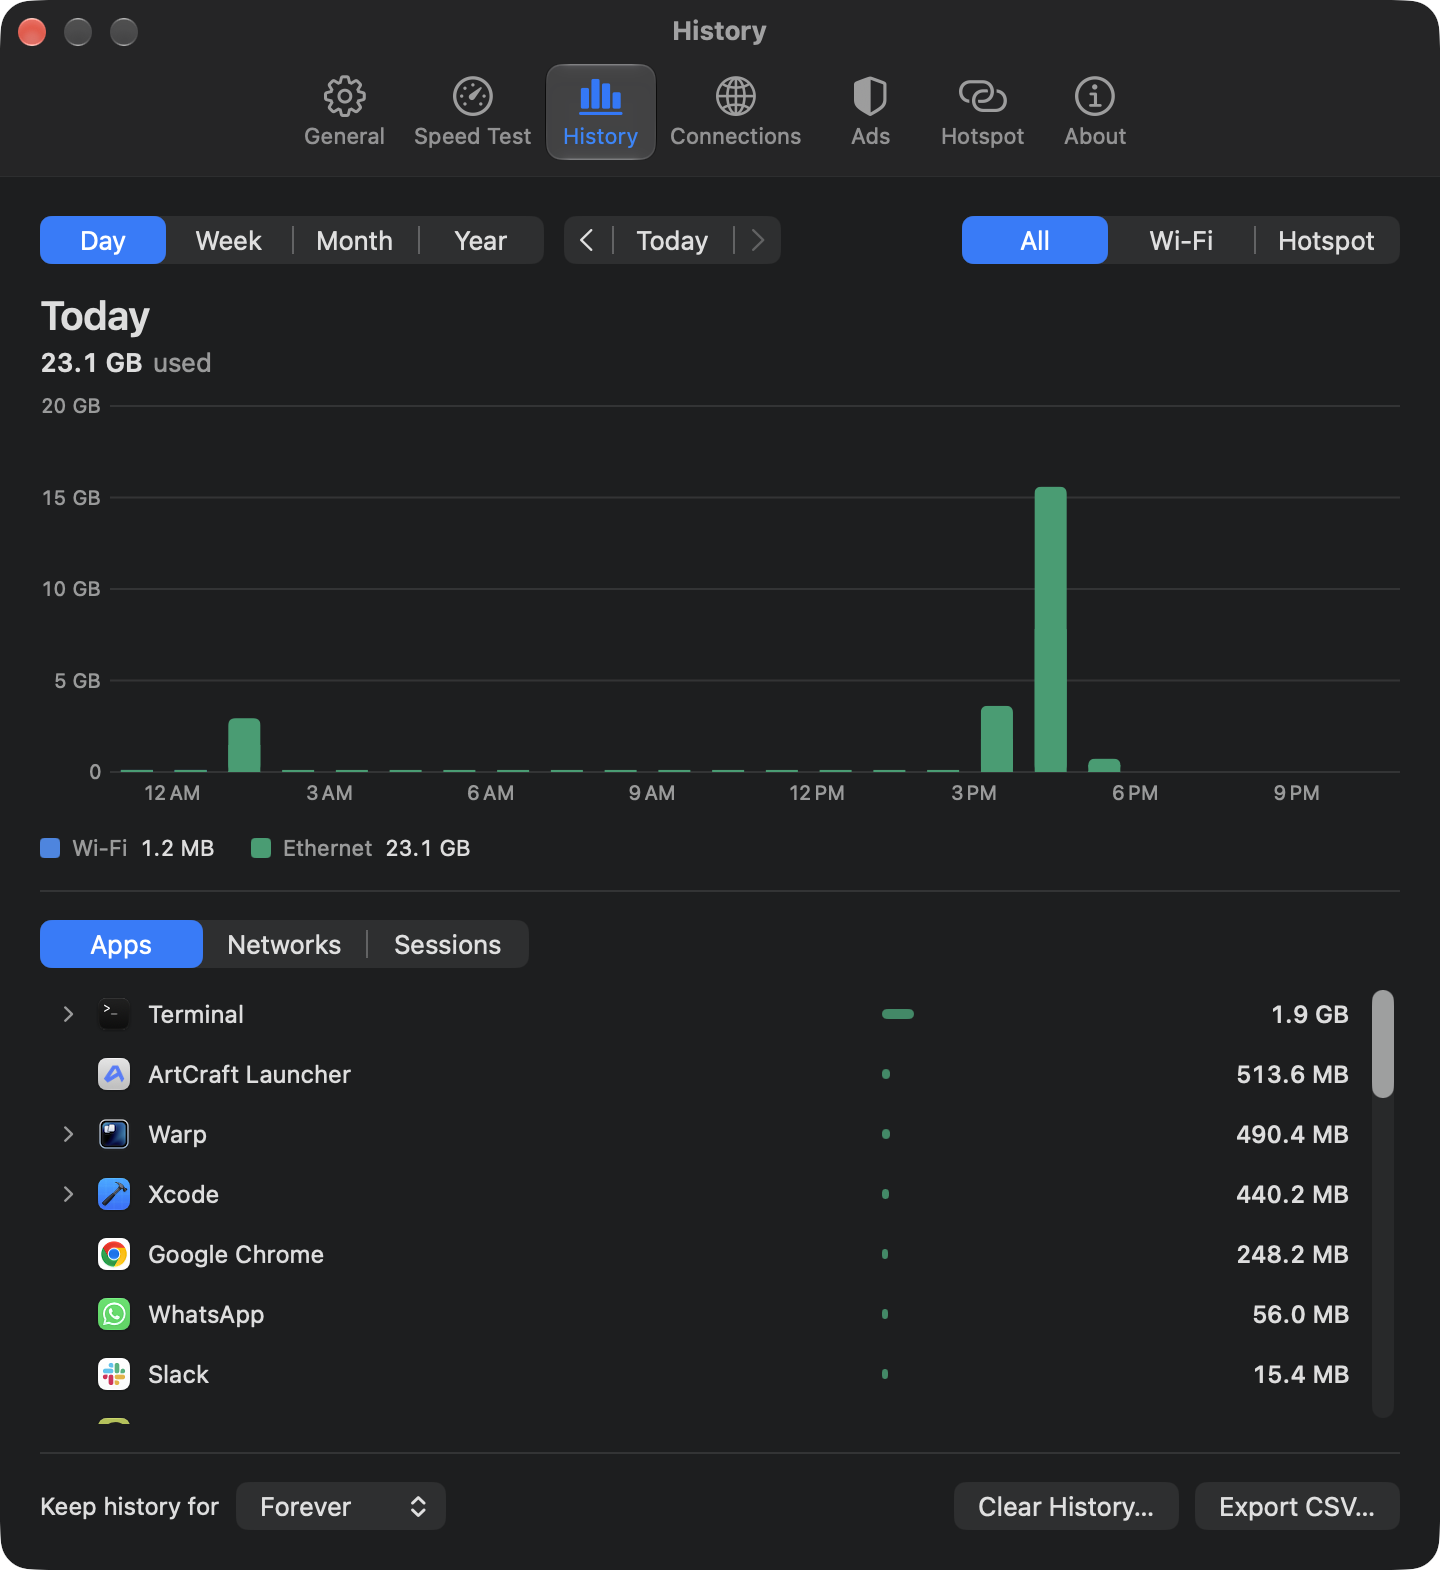
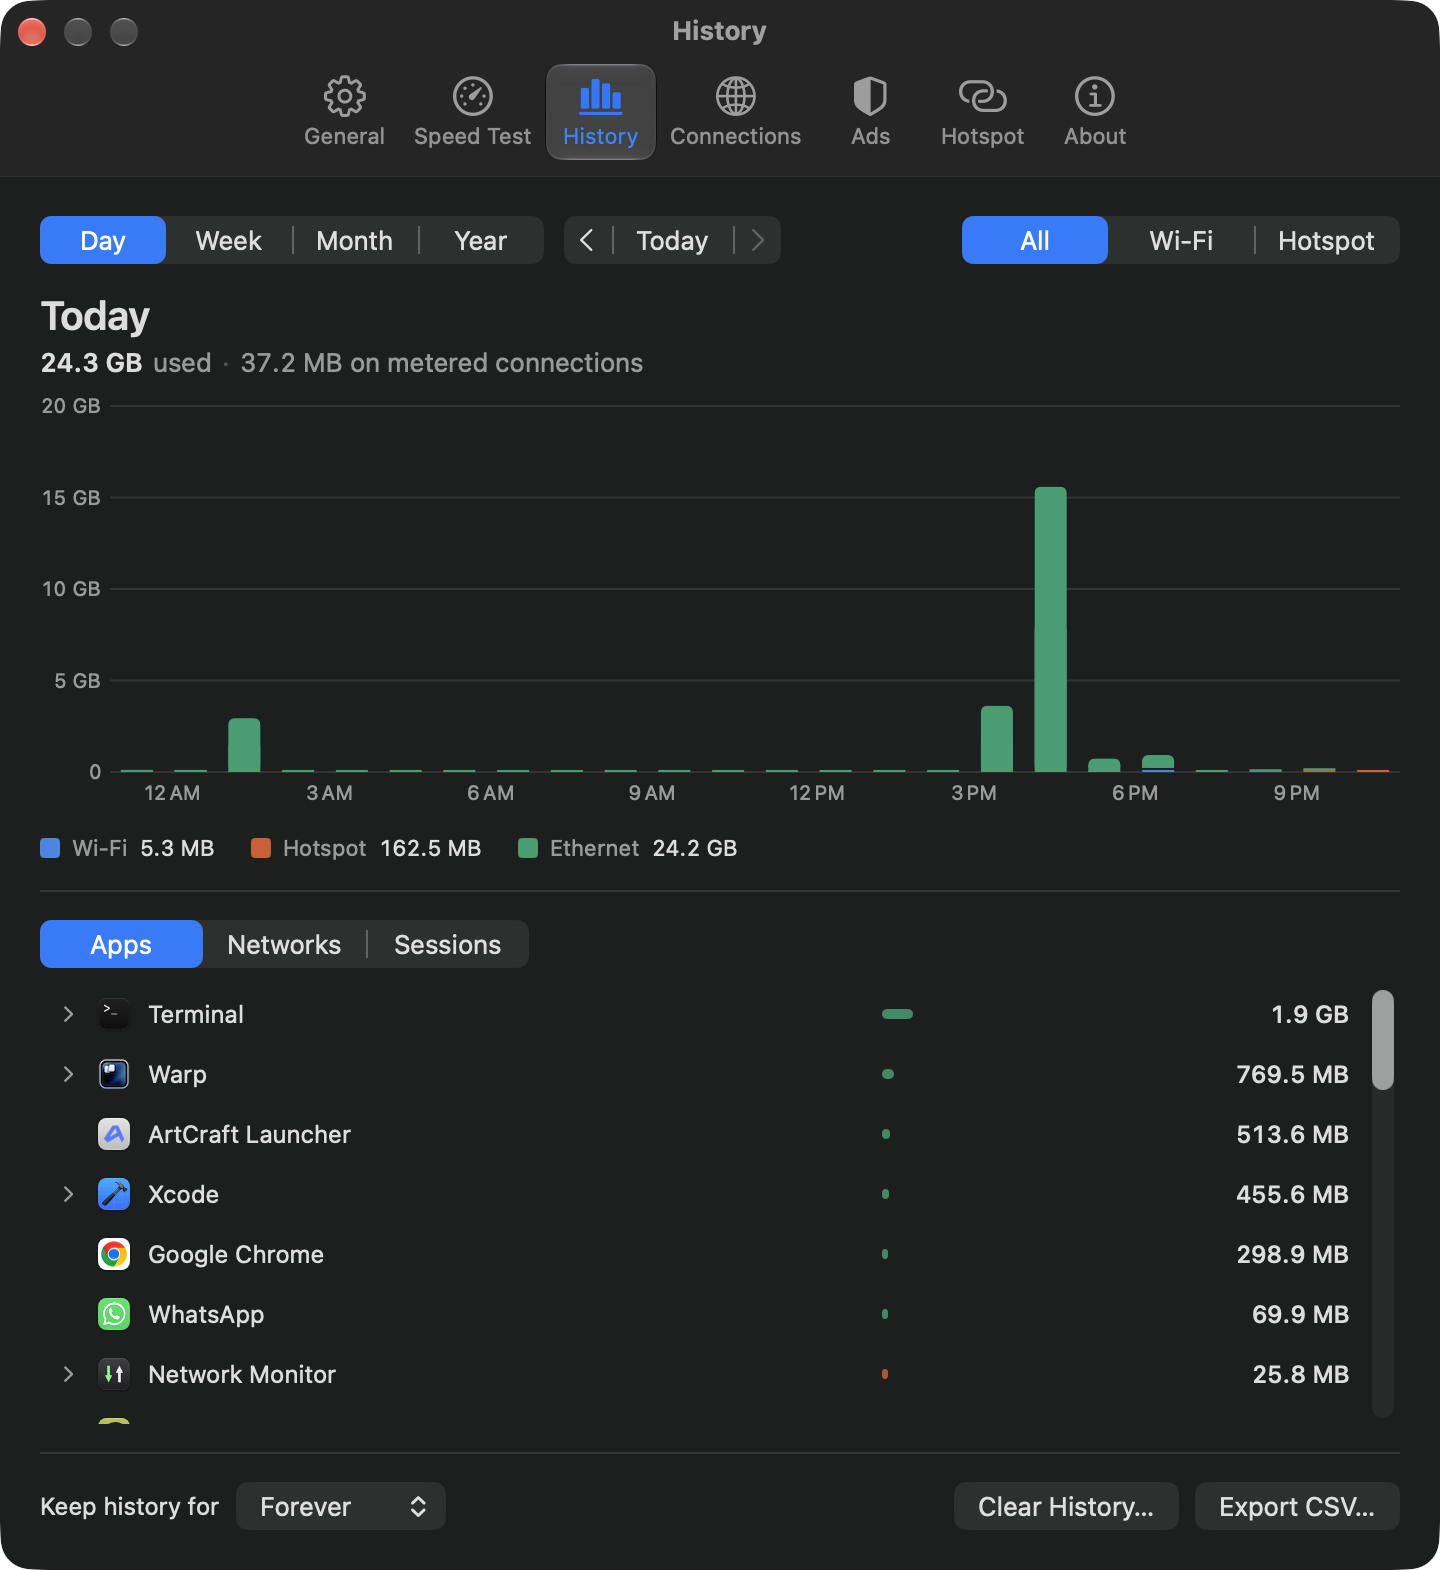
Site for 1.26.3 (#358)
Version, 13.9 MB and What's new link; History and About retaken from the installed 1.26.3, and the trees for Connections, History and About's new accessibility labels (#346).

diff --git a/index.html b/index.html
@@ -459,7 +459,7 @@ footer a { color: var(--text-2); }
         <a class="btn" href="https://github.com/kevinabouhanna/NetworkMonitor/releases/latest/download/NetworkMonitor.dmg" data-download>Download for Mac</a>
         <a class="more" href="https://github.com/kevinabouhanna/NetworkMonitor">View on GitHub</a>
       </div>
-      <p class="hero-meta reveal d3"><span>Version 1.26.2</span><span>macOS 13 or later</span><span>Apple silicon and Intel</span><span>Free and open source</span></p>
+      <p class="hero-meta reveal d3"><span>Version 1.26.3</span><span>macOS 13 or later</span><span>Apple silicon and Intel</span><span>Free and open source</span></p>
       <div class="featured reveal d3">
         <a href="https://www.trymacapps.com" target="_blank" rel="noopener">
           <img
@@ -830,7 +830,7 @@ footer a { color: var(--text-2); }
                  alt="NetworkMonitor Settings, on its General pane, with a toolbar of seven panes: General, Speed Test, History, Connections, Ads, Hotspot and About. Start at login is on. Show speeds in offers Mbps or MB/s, with MB/s chosen. Know your Wi‑Fi networks by name, with a Turn On… button: Usage History calls them Home and Office, not Wi‑Fi · 3f2a; macOS calls this Location, but NetworkMonitor never looks up where you are. Under Menu bar colors: Download in green, Upload in light grey, During a speed test in two shades of cyan, and a dimmed Use Default Colors button. Under Popover totals: Counting since midnight, Sampling every second while plugged in, and Start the totals over, with a Reset Now button. What a row means is behind an ⓘ that appears when you point at it.">
             <img class="prefs-shot" data-shot="speed-test" data-w="720" data-h="320" src="assets/settings/speed-test.png?v=0dd1ec19" width="1440" height="640" loading="lazy" aria-hidden="true"
                  alt="The Speed Test pane: Test your internet speed, with a Test Now button. A note says it runs macOS's built-in networkQuality only when you start it, download first, then upload, typically using 50 to 500 MB. Show the test in the popover as Card or Compact, with Card chosen.">
-            <img class="prefs-shot" data-shot="history" data-w="720" data-h="785" src="assets/settings/history.png?v=945f3163" width="1440" height="1570" loading="lazy" aria-hidden="true"
+            <img class="prefs-shot" data-shot="history" data-w="720" data-h="785" src="assets/settings/history.png?v=f24b5637" width="1440" height="1570" loading="lazy" aria-hidden="true"
                  alt="The History pane on Today, with Day, Week, Month and Year, a ‹ Today › stepper, and All, Wi‑Fi and Hotspot. How much was used, by network, in a bar chart by the hour. Below it, Apps, biggest first, each with its icon and how much it used. Networks and Sessions are the other two lists. Keep history for Forever, with Clear History… and Export CSV… buttons.">
             <img class="prefs-shot" data-shot="connections" data-w="720" data-h="778" src="assets/settings/connections.png?v=8970e198" width="1440" height="1556" loading="lazy" aria-hidden="true"
                  alt="The Connections pane. Which companies, countries and servers your apps talk to, on a list and a world map, with an Open Connections… button. Under Blocking, Let apps connect offers Anywhere, Ask Me and Only Where I Allow, with Anywhere chosen; right-click a company, app, country or server in Connections to block it, or to always allow it. Rules, with Export… and Import… buttons. Under Lookups, Encrypt lookups is off, sent to Cloudflare: off, lookups go to your network's DNS server unencrypted, as on any Mac. Opens with List, Both or Map, with Both chosen. Countries and networks: DB-IP Lite, November 2026, Update them monthly, switched on, and Kept as long as Usage History.">
@@ -842,7 +842,7 @@ footer a { color: var(--text-2); }
                  alt="The Hotspot pane with Paused on a hotspot open: one line per app found on this Mac, each with its switch, all on, NetworkMonitor itself among them. Two lines group the rest: Through NetworkMonitor's helper, naming macOS updates, App Store apps, Chrome, Slack and others, and Through their update folders, naming the apps whose update folder is locked. The pane scrolls to Can't be paused, closed.">
             <img class="prefs-shot" data-shot="hotspot-uncovered" data-w="720" data-h="584" src="assets/settings/hotspot-uncovered.png?v=b5aa4340" width="1440" height="1168" loading="lazy" aria-hidden="true"
                  alt="The Hotspot pane with Can't be paused open: the apps it can't pause, with why behind an ⓘ that appears when you point at the row. Quit these while you're on a hotspot to be sure they don't update. Every app's updater: Stopped on hotspots, including ones listed as can't be paused when they update with a program of their own.">
-            <img class="prefs-shot" data-shot="about" data-w="720" data-h="710" src="assets/settings/about.png?v=2d4ceba6" width="1440" height="1420" loading="lazy" aria-hidden="true"
+            <img class="prefs-shot" data-shot="about" data-w="720" data-h="710" src="assets/settings/about.png?v=f317ea45" width="1440" height="1420" loading="lazy" aria-hidden="true"
                  alt="The About pane: the NetworkMonitor icon, its version, and Live network speed in your menu bar, and which app used your data. Links to the website, the release notes and the source code on GitHub. Free and open source, under the MIT licence. Check for updates automatically is on, with a Check Now button: once a day it asks GitHub whether there's a newer version, never on a hotspot, and an update installs only when you say so, and only if it's signed by NetworkMonitor. Remove NetworkMonitor, with an Uninstall… button.">
             <button class="prefs-row" type="button" aria-expanded="false" data-row="apps" style="--x:-340;--y:274;--w:680;--h:44" hidden>Paused on a hotspot</button>
             <button class="prefs-row" type="button" aria-expanded="false" data-row="uncovered" style="--x:-340;--y:372;--w:680;--h:44" hidden>Can’t be paused</button>
@@ -900,7 +900,7 @@ footer a { color: var(--text-2); }
           <p>The usual Mac way: open the disk image and drag NetworkMonitor into <strong>Applications</strong>.</p>
           <div class="get">
             <a class="btn" href="https://github.com/kevinabouhanna/NetworkMonitor/releases/latest/download/NetworkMonitor.dmg" data-download>Download NetworkMonitor.dmg</a>
-            <span class="meta">Version 1.26.2 · 13.8 MB · Universal</span>
+            <span class="meta">Version 1.26.3 · 13.9 MB · Universal</span>
           </div>
           <figure class="dmg-shot" style="margin-bottom:0">
             <img src="assets/dmg-window.png?v=5630c3c3" width="1424" height="1104" loading="lazy"
@@ -917,7 +917,7 @@ footer a { color: var(--text-2); }
       </div>
 
       <div class="ctas reveal">
-        <a class="more" href="https://github.com/kevinabouhanna/NetworkMonitor/releases/tag/v1.26.2">What’s in version 1.26.2</a>
+        <a class="more" href="https://github.com/kevinabouhanna/NetworkMonitor/releases/tag/v1.26.3">What’s in version 1.26.3</a>
         <a class="more" href="https://github.com/kevinabouhanna/NetworkMonitor/wiki">Documentation</a>
         <a class="more" href="https://github.com/kevinabouhanna/NetworkMonitor">View on GitHub</a>
       </div>
